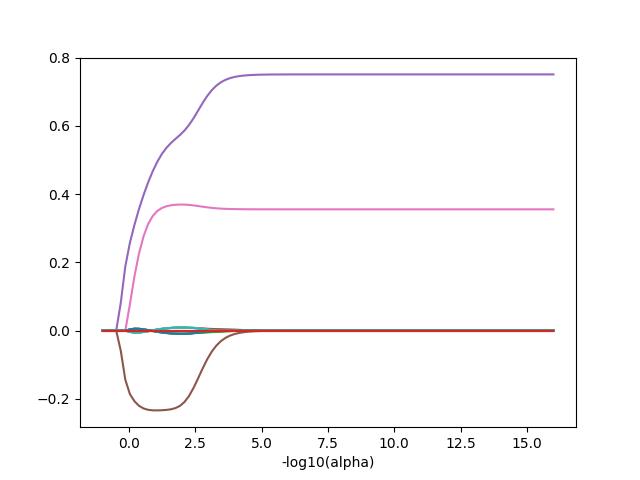
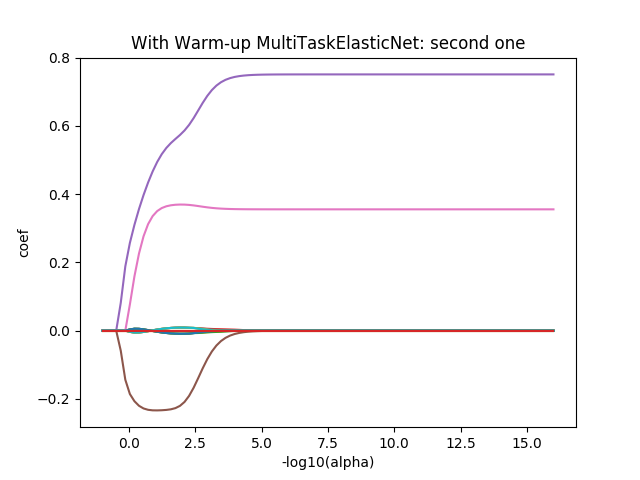
final sub

Changed region(s): [[0.1875, 0.0625, 0.8125, 0.125], [0.0312, 0.4688, 0.0625, 0.5312]]

diff --git a/test.py b/test.py
@@ -27,9 +27,11 @@ alpha_array = np.logspace(-16,1,num_alpha)
 alpha_array = alpha_array[::-1]
 coef_list_1 = []
 coef_list_2 = []
-coef_list_1_m = [] 
+coef_list_1_m = []
 coef_list_2_m = []
-coef_list_1_l = [] 
+coef_list_1_m_w = []
+coef_list_2_m_w = []
+coef_list_1_l = []
 coef_list_2_l = []
 
 
@@ -37,12 +39,14 @@ for index, alpha in enumerate(alpha_array):
 
     print alpha
 
-
     if not disable_single_enet:
         clf = ElasticNet(alpha=alpha, l1_ratio=l1_ratio, tol=tol, max_iter=max_iter, fit_intercept=False)
         clf.fit(A, B)
         coef_list_1.append(clf.coef_[0])
         coef_list_2.append(clf.coef_[1])
+
+    clf_m_wrong = MultiTaskElasticNet(alpha=alpha, l1_ratio=l1_ratio, tol=tol, max_iter=max_iter, fit_intercept=False)
+    clf_m_wrong.fit(A, B)
 
     if index == 0:
         clf_m = MultiTaskElasticNet(alpha=alpha, l1_ratio=l1_ratio, tol=tol, max_iter=max_iter, fit_intercept=False)
@@ -52,20 +56,29 @@ for index, alpha in enumerate(alpha_array):
         clf_m.alpha = alpha
         clf_m.fit(A, B)
 
+    coef_copy_wrong = np.copy(clf_m_wrong.coef_)
     coef_copy = np.copy(clf_m.coef_)
 
     coef_list_1_m.append(coef_copy[0])
     coef_list_2_m.append(coef_copy[1])
+    coef_list_1_m_w.append(coef_copy_wrong[0])
+    coef_list_2_m_w.append(coef_copy_wrong[1])
+
+
 
 if not disable_single_enet:
     # enet
     plt.figure()
+    plt.ylabel('coef')
+    plt.title('ElasticNet with single target: first one')
     plt.plot(-np.log10(alpha_array), coef_list_1)
     plt.xlabel('-log10(alpha)')
     plt.savefig('single_run_enet_coef_1.png')
     plt.close()
 
     plt.figure()
+    plt.ylabel('coef')
+    plt.title('ElasticNet with single target: second one')
     plt.plot(-np.log10(alpha_array), coef_list_2)
     plt.xlabel('-log10(alpha)')
     plt.savefig('single_run_enet_coef_2.png')
@@ -73,16 +86,38 @@ if not disable_single_enet:
 
 # m_enet
 plt.figure()
+plt.ylabel('coef')
+plt.title('With Warm-up MultiTaskELasticNet: first one')
 plt.plot(-np.log10(alpha_array), coef_list_1_m)
 plt.xlabel('-log10(alpha)')
 plt.savefig('single_run_multi_enet_coef_1.png')
 plt.close()
 
 plt.figure()
+plt.title('With Warm-up MultiTaskElasticNet: second one')
+plt.ylabel('coef')
 plt.plot(-np.log10(alpha_array), coef_list_2_m)
 plt.xlabel('-log10(alpha)')
 plt.savefig('single_run_multi_enet_coef_2.png')
 plt.close()
+
+# m_enet: but wrongly setup, i.e., no warm-up
+plt.figure()
+plt.ylabel('coef')
+plt.title('Without Warm-up MultiTaskELasticNet: first one')
+plt.plot(-np.log10(alpha_array), coef_list_1_m_w)
+plt.xlabel('-log10(alpha)')
+plt.savefig('single_run_multi_enet_coef_1_now.png')
+plt.close()
+
+plt.figure()
+plt.title('Without Warm-up MultiTaskElasticNet: second one')
+plt.ylabel('coef')
+plt.plot(-np.log10(alpha_array), coef_list_2_m_w)
+plt.xlabel('-log10(alpha)')
+plt.savefig('single_run_multi_enet_coef_2_now.png')
+plt.close()
+
 
 
 # case 2: run enet_path to do the same thing
@@ -92,23 +127,21 @@ alphas_enet, coefs_enet, _ = enet_path(A, B, max_iter=max_iter, tol=tol,
                                        l1_ratio=l1_ratio, fit_intercept=False)
 
 plt.figure()
+plt.ylabel('coef')
+plt.title('Direct calling enet_path')
 plt.plot(-np.log10(alpha_array), coefs_enet[0,:,:].T)
 plt.xlabel('-log10(alpha)')
 plt.savefig('enet_path_coef_1.png')
 plt.close()
 
-plt.figure()
+plt.figure('Direct calling enet_path')
+plt.ylabel('coef')
 plt.plot(-np.log10(alpha_array), coefs_enet[1,:,:].T)
 plt.xlabel('-log10(alpha)')
 plt.savefig('enet_path_coef_2.png')
 plt.close()
 
 
-# Question: why there is possible for two solutions?
-
-# Answer: because A is not full rank. so the null space is not zero.
-#         but unfortunately, the sklearn.linear_models.ElasticNet didn't find the one with 
-#         smallest norm coefficient. BUT! enet_path can find!!!
 
 
 

diff --git a/README.md b/README.md
@@ -1,8 +1,23 @@
-# ElasticNet in Sklearn does not result in consistent result with enet_path
+# Example: the suprisingly sensetivity of initial guess in `sklearn.linear_model.MultiTaskElasticNet` 
 
+## Motivations
+- For a task of drawing a **ElasticNet path for a multi path-output linear regression problem** that is supposed to suit well with `MultiTaskElasticNet`, we found that the *path* from **`sklearn.linear_model.MultiTaskElasticNet`** in Sklearn is not consistent with that from **`sklearn.linear_model.enet_path`**
+- In addition, we found something weird, if we feed the **$\alpha$** in the ElastNet one by one versus feed a whole array of **$\alpha$**, the **sklearn.linear_model.enet_path** gives different results  
+- A first glance of the [source code](https://github.com/scikit-learn/scikit-learn/blob/7389dba/sklearn/linear_model/coordinate_descent.py#L1629) clearly shows that both `MultiTaskElasticNet` and `enet_path` are calling the same **`Cython`** function for doing the heavy lifting in ElasticNet in the [cd_fast](https://github.com/scikit-learn/scikit-learn/blob/7389dbac82d362f296dc2746f10e43ffa1615660/sklearn/linear_model/cd_fast.pyx) source code. 
+- Even if we use the same arguments in the interface of both `MultiTaskElasticNet` and `enet_path`, the results are different, **which is not acceptable!** 
+
+## What we find
+- Going deep into the source code, Alex Sun found that in the specific block of [**enet_path**](https://github.com/scikit-learn/scikit-learn/blob/7389dbac82d362f296dc2746f10e43ffa1615660/sklearn/linear_model/coordinate_descent.py#L455), the for loop block is exactly reusing the coefficient from last alpha, under a sorted descending $\alpha$ array from large to small value. 
+- Before running the algorithm written in `Cython` in `cd_fast`, besides regular checking just as any other well-written library, `enet_path` **forces to sort the alpha arrary**, if there is any, from large to small, and then run them one by one with each one reusing previous final coefficient as **initial guess**! This is what really different from the `MultiTaskElasticNet` or `ElasticNet` itself in `Sklearn`! 
+
+## Try it out yourself!
 To show this, type
-`python test.py`
+1. `python test.py`
+2. And then check out all the `png` files.
 
-Note that using the same arguments in both ElasticNet and MultiElasticNet, the result differs from enet_path.
+## Result and Conclusions
+1. `enet_path` gives you the better result (the one gives smaller total loss) with sparsity while a blind calling from MultiTaskElasticNet cannot!
+2. With a careful modification to force it to reuse previous final solution (and previous solution must come from a larger alpha), as noted by Alex Sun, one can improve the result from `MultiTaskElasticNet` to make it the same performance as `enet_path`. 
 
-**It turns out that `enet_path` give you the right result with sparsity while ElasticNet cannot!**
+## Acknowledgment
+I thank Alex Sun for pointing out the issues in the source code that the difference lies in whether or not reusing previous solutions. 
